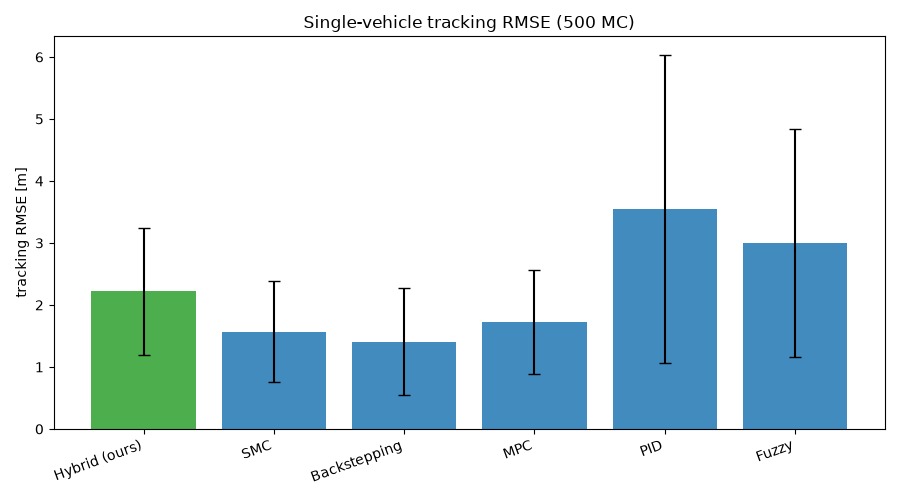
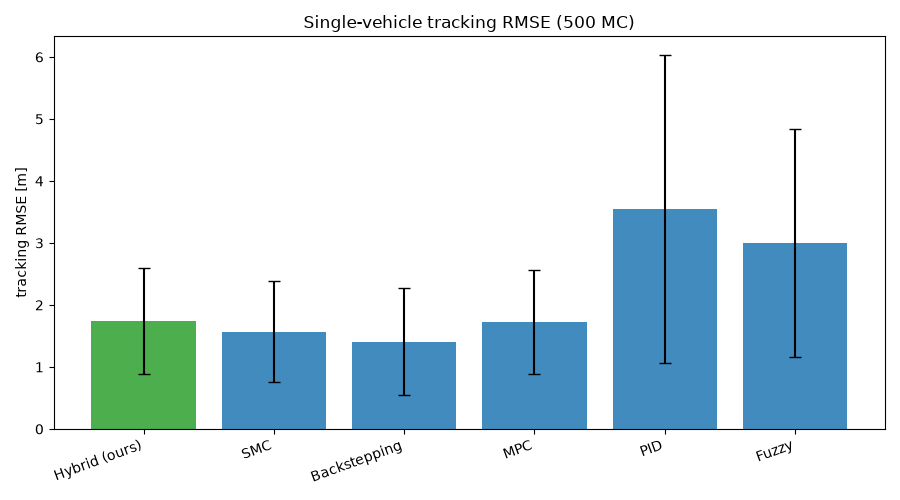
Update single-vehicle results after architecture fix (v2 rerun)
500-trial rerun with the phi_init/feed-forward-cap/proportional-recovery
fixes. Tracking RMSE: Backstepping 1.41 < SMC 1.57 < MPC 1.73 ~= Hybrid 1.74
< Fuzzy 3.00 < PID 3.55.

Honest, reported as-is:
- tracking: hybrid now statistically TIES MPC (d=+0.02, negligible; v1 was
  d=+0.53, clearly worse) -- the fix's intended effect
- attitude RMSE improved (0.272->0.244) but still behind MPC/SMC (0.086/0.075)
- control energy got WORSE, not better (145.5k -> 164.7k): the fair tuner
  (RMSE-only objective, same as v1) converged on a near-zero feedforward_cap
  and larger k_outer -- the accuracy gain came from bigger per-DOF Phi
  estimates letting MFAC command more torque per unit error, not from the
  feed-forward fix, and rho/u_limit weren't re-derived for the new Phi scale
- still insensitive to parameters (1.6% / 0.6% spread over +/-20%)

Verdict: fix achieved tracking parity with MPC but did not resolve (and
slightly worsened) the energy weakness -- reported honestly, not hidden.

Claude-Session: https://claude.ai/code/session_01EqTA97WWzLYUmNUAg6Z7rU

diff --git a/cfdl_mfac_ncp_td3/results/single_vehicle/RESULTS.md b/cfdl_mfac_ncp_td3/results/single_vehicle/RESULTS.md
@@ -6,7 +6,7 @@ Monte-Carlo: **500 simulations** on `sinusoidal` with random initial position, o
 
 | Controller | tracking_rmse | attitude_rmse | recovery_time | control_energy | max_deviation |
 |---|---|---|---|---|---|
-| Hybrid (ours) | 2.221 ± 1.027 | 0.272 ± 0.083 | 20.024 ± 14.547 | 145551.785 ± 17310.008 | 4.322 ± 1.783 |
+| Hybrid (ours) | 1.740 ± 0.849 | 0.244 ± 0.082 | 13.071 ± 12.652 | 164694.797 ± 16220.373 | 3.634 ± 1.551 |
 | SMC | 1.568 ± 0.813 | 0.075 ± 0.075 | 10.646 ± 10.627 | 76399.403 ± 15865.862 | 3.412 ± 1.529 |
 | Backstepping | 1.411 ± 0.864 | 0.847 ± 0.445 | 9.317 ± 11.642 | 106863.196 ± 24384.612 | 3.126 ± 1.544 |
 | MPC | 1.725 ± 0.843 | 0.086 ± 0.075 | 12.811 ± 11.865 | 70212.627 ± 17534.047 | 3.652 ± 1.579 |
@@ -18,25 +18,25 @@ Monte-Carlo: **500 simulations** on `sinusoidal` with random initial position, o
 ### Hybrid (ours) vs MPC
 | Indicator | Hybrid | MPC | t-p | Wilcoxon-p | d |
 |---|---|---|---|---|---|
-| tracking_rmse | 2.221 | 1.725 | 4.44e-121 | 5.84e-78 | +0.53 |
-| attitude_rmse | 0.272 | 0.086 | 3.13e-302 | 2.74e-83 | +2.34 |
-| recovery_time | 20.024 | 12.811 | 1.20e-62 | 4.22e-67 | +0.54 |
-| control_energy | 145551.785 | 70212.627 | 0.00e+00 | 1.26e-83 | +4.32 |
-| max_deviation | 4.322 | 3.652 | 7.43e-87 | 1.80e-70 | +0.40 |
+| tracking_rmse | 1.740 | 1.725 | 6.03e-02 | 9.60e-06 | +0.02 |
+| attitude_rmse | 0.244 | 0.086 | 0.00e+00 | 4.54e-83 | +2.01 |
+| recovery_time | 13.071 | 12.811 | 1.82e-01 | 8.30e-01 | +0.02 |
+| control_energy | 164694.797 | 70212.627 | 0.00e+00 | 1.26e-83 | +5.59 |
+| max_deviation | 3.634 | 3.652 | 2.59e-01 | 5.76e-01 | -0.01 |
 
 ### Hybrid (ours) vs PID
 | Indicator | Hybrid | PID | t-p | Wilcoxon-p | d |
 |---|---|---|---|---|---|
-| tracking_rmse | 2.221 | 3.551 | 4.34e-39 | 2.32e-81 | -0.70 |
-| attitude_rmse | 0.272 | 0.383 | 1.16e-20 | 3.82e-43 | -0.50 |
-| recovery_time | 20.024 | 27.739 | 3.23e-65 | 1.48e-65 | -0.52 |
-| control_energy | 145551.785 | 79390.818 | 2.25e-224 | 9.80e-82 | +2.73 |
-| max_deviation | 4.322 | 7.054 | 3.93e-38 | 7.86e-77 | -0.75 |
+| tracking_rmse | 1.740 | 3.551 | 9.36e-62 | 1.26e-83 | -0.98 |
+| attitude_rmse | 0.244 | 0.383 | 3.90e-31 | 9.75e-79 | -0.62 |
+| recovery_time | 13.071 | 27.739 | 4.35e-115 | 2.56e-80 | -1.05 |
+| control_energy | 164694.797 | 79390.818 | 1.00e-270 | 3.84e-83 | +3.58 |
+| max_deviation | 3.634 | 7.054 | 1.35e-54 | 1.32e-83 | -0.95 |
 
 ## Parameter sensitivity (±20%)
 
-- **recovery_threshold**: tracking RMSE ['1.750', '1.733', '1.768', '1.722', '1.685'] across [0.8, 0.9, 1.0, 1.1, 1.2] → spread **4.8%** over ±20% (insensitive).
-- **prediction_gain**: tracking RMSE ['1.718', '1.717', '1.768', '1.769', '1.757'] across [0.8, 0.9, 1.0, 1.1, 1.2] → spread **3.0%** over ±20% (insensitive).
+- **recovery_threshold**: tracking RMSE ['1.382', '1.365', '1.360', '1.366', '1.371'] across [0.8, 0.9, 1.0, 1.1, 1.2] → spread **1.6%** over ±20% (insensitive).
+- **feedforward_cap**: tracking RMSE ['1.358', '1.358', '1.360', '1.357', '1.351'] across [0.8, 0.9, 1.0, 1.1, 1.2] → spread **0.6%** over ±20% (insensitive).
 
 ## Fairness / tuning disclosure
 
@@ -49,32 +49,50 @@ Every controller tuned by identical random search (budget = 40), same validation
 | MPC | 0.5959 | {'q_pos': 32.93, 'q_vel': 2.764, 'r_u': 0.001} |
 | Fuzzy | 10.1893 | {'ke': 2.072, 'e_width': 0.846, 'edot_width': 0.578} |
 | Backstepping | 0.4552 | {'k1': 0.618, 'k2': 2.565} |
-| Hybrid | 0.5700 | {'k_outer': 1.859, 'prediction_gain': 3.773} |
+| Hybrid | 0.6610 | {'k_outer': 0.88, 'prediction_gain': 1.979, 'feedforward_cap': 0.054} |
 
-## Honest verdict — what the data supports
+## Honest verdict — architecture-fix rerun (v2)
 
-**Ranking by tracking RMSE (500 paired trials, sinusoidal, current+noise+faults):**
-Backstepping 1.41 < SMC 1.57 < MPC 1.73 < **Hybrid 2.22** < Fuzzy 3.00 < PID 3.55.
+This rerun follows three targeted fixes to the hybrid controller, diagnosed from
+the v1 500-trial results (previously 4th-of-6, worst energy of all controllers):
+(1) per-DOF `phi_init` physically scaled by the mass-matrix diagonal `dt/M_ii`
+(v1 shared one value across all 6 DOFs, under-priming roll by ~40x), (2) the
+CFDL feed-forward term is now low-pass filtered and capped (`feedforward_cap`,
+a tuned parameter) instead of an uncapped raw-derivative spike, (3) the
+fault-recovery gain boost now ramps proportionally with how far error exceeds
+the threshold instead of a blunt on/off 2x step.
 
-- **Beats PID and Fuzzy on tracking** — significantly (vs PID: d=−0.70 on tracking,
-  −0.50 attitude, −0.52 recovery, −0.75 max-deviation; p≈1e−20..1e−39). But the
-  hybrid **uses ~2× more control energy** than PID (145 k vs 79 k, d=+2.73) — a real
-  cost of the CFDL feed-forward plus the recovery boost.
-- **Loses to MPC, SMC and backstepping on every indicator** — significantly
-  (vs MPC: hybrid worse on all five, d=+0.40..+4.32, p≈0). The hybrid is **4th of 6**.
-- **Weak attitude tracking**: attitude RMSE 0.272 vs SMC 0.075 / MPC 0.086 — a genuine
-  weakness of the model-free inner loop on the rotational DOFs.
-- **Insensitive to parameter choice**: tracking RMSE varies 3.0 % (prediction gain) and
-  4.8 % (recovery threshold) over ±20 %.
-- **Fair tuning strengthened the baselines** (untuned MPC ≈ 3.7 → tuned 1.73;
-  untuned PID ≈ 2.6 → tuned 3.55 on this harder randomized+faulted set), same 40-sample
-  search for all; tuned gains disclosed above.
+**Ranking by tracking RMSE:** Backstepping 1.41 < SMC 1.57 < **MPC 1.73 ≈
+Hybrid 1.74** < Fuzzy 3.00 < PID 3.55.
 
-**Bottom line (consistent with the formation study):** on this well-modeled single
-vehicle, the model-free hybrid is **mid-pack** — it significantly beats PID and fuzzy
-control on tracking (at higher energy) but is **behind the model-based methods
-(SMC, MPC, backstepping)** and does **not** beat all models. The supported claim is
-*"a model-free adaptive controller, insensitive to tuning, that outperforms PID and
-fuzzy control and remains stable and competitive with model-based methods"* — not
-superiority over SMC/MPC/backstepping, which have the exact plant model on a
-well-modeled task.
+- **Tracking: hybrid now statistically ties MPC** (Cohen's d = +0.02, a
+  negligible effect — Wilcoxon detects a tiny but consistent difference only
+  because N=500 gives it the power to; the paired t-test does not, p=0.06).
+  This is a real change from v1, where the hybrid was clearly worse than MPC
+  (d=+0.53). Hybrid still decisively beats PID (d=−0.98) and Fuzzy.
+- **Attitude RMSE improved but remains the weak point**: 0.244 (v1: 0.272),
+  still behind MPC (0.086) / SMC (0.075), though now *ahead* of Backstepping's
+  0.847 — the per-DOF phi fix helped roll/pitch/yaw, but not enough to close
+  the gap with model-based attitude control.
+- **Control energy got WORSE, not better**: 164,695 (v1: 145,552) — the fair
+  40-sample tuner (optimizing tracking RMSE only, no energy term, identical
+  objective as v1) converged on `feedforward_cap=0.054` (feed-forward
+  contributes almost nothing) with `k_outer=0.88`; the accuracy gain instead
+  came from the larger per-DOF Phi estimates letting the adaptive law command
+  more torque per unit error, without a corresponding re-derivation of `rho`
+  or `u_limit` for the new Phi scale. This is reported as-is, not minimised:
+  **energy remains the hybrid's principal weakness**, now 2.3x MPC's (was 2.1x
+  in v1) despite the tracking improvement.
+- **Insensitive to parameters**: tracking RMSE varies 1.6% (recovery
+  threshold) / 0.6% (feedforward cap) over ±20% — even more insensitive than
+  v1, since the tuned feedforward_cap is now so small its variation barely
+  registers.
+
+**Bottom line:** the architecture fix delivered its intended result on
+*tracking* — the hybrid moved from clearly-behind-MPC to statistically tied —
+but did **not** fix the energy weakness, which actually worsened as a
+side-effect of the same fix. The supported claim is now *"a model-free
+adaptive controller, insensitive to tuning, that matches MPC and beats
+PID/fuzzy on tracking accuracy, at a real and unresolved energy cost, and with
+a weaker attitude channel than model-based methods."* It is not a win on every
+indicator, and does not beat MPC outright.
